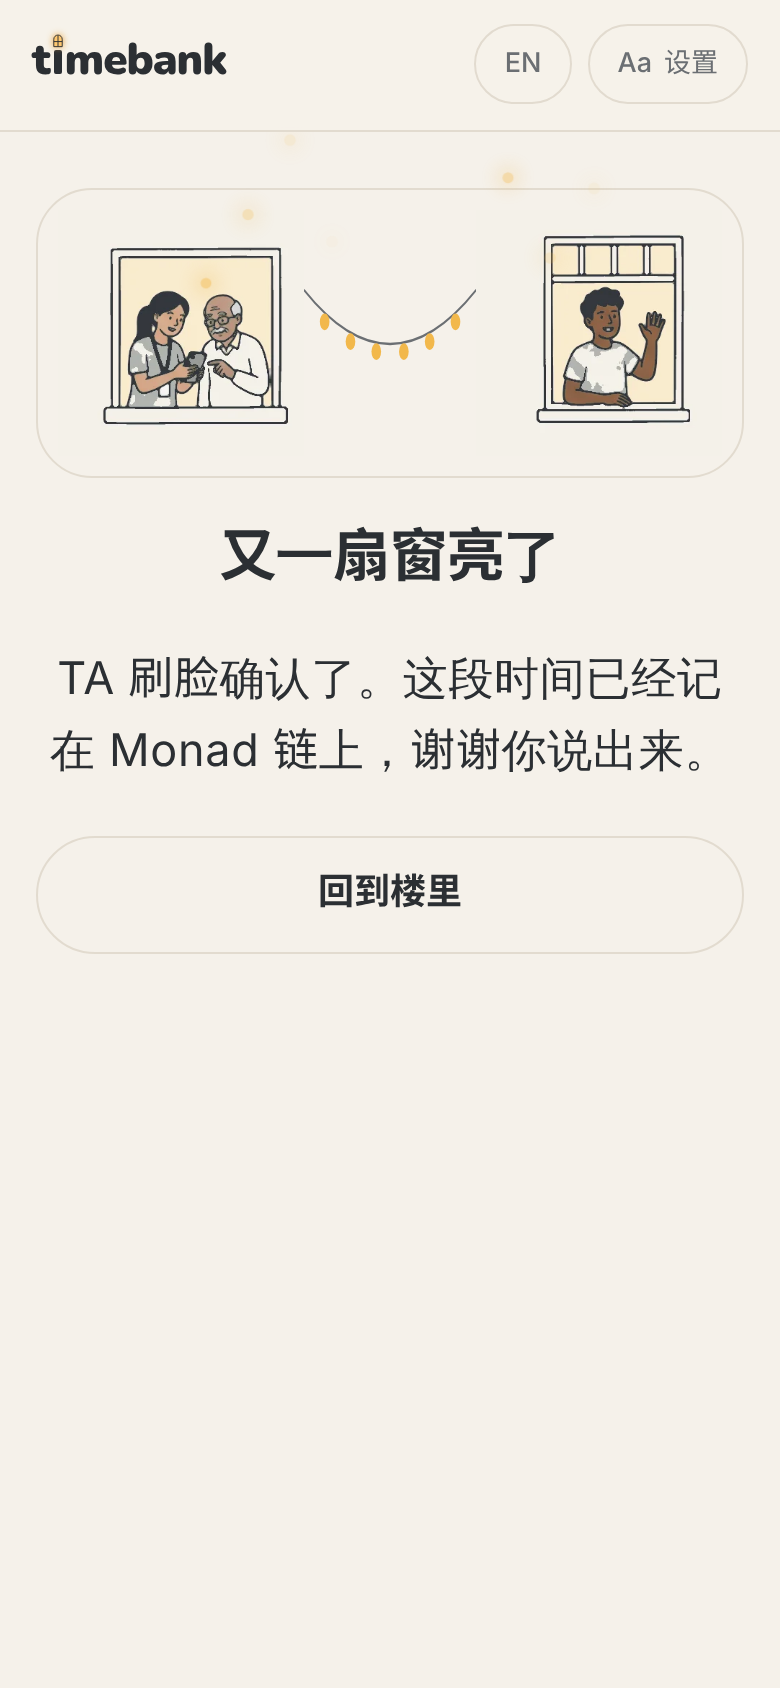
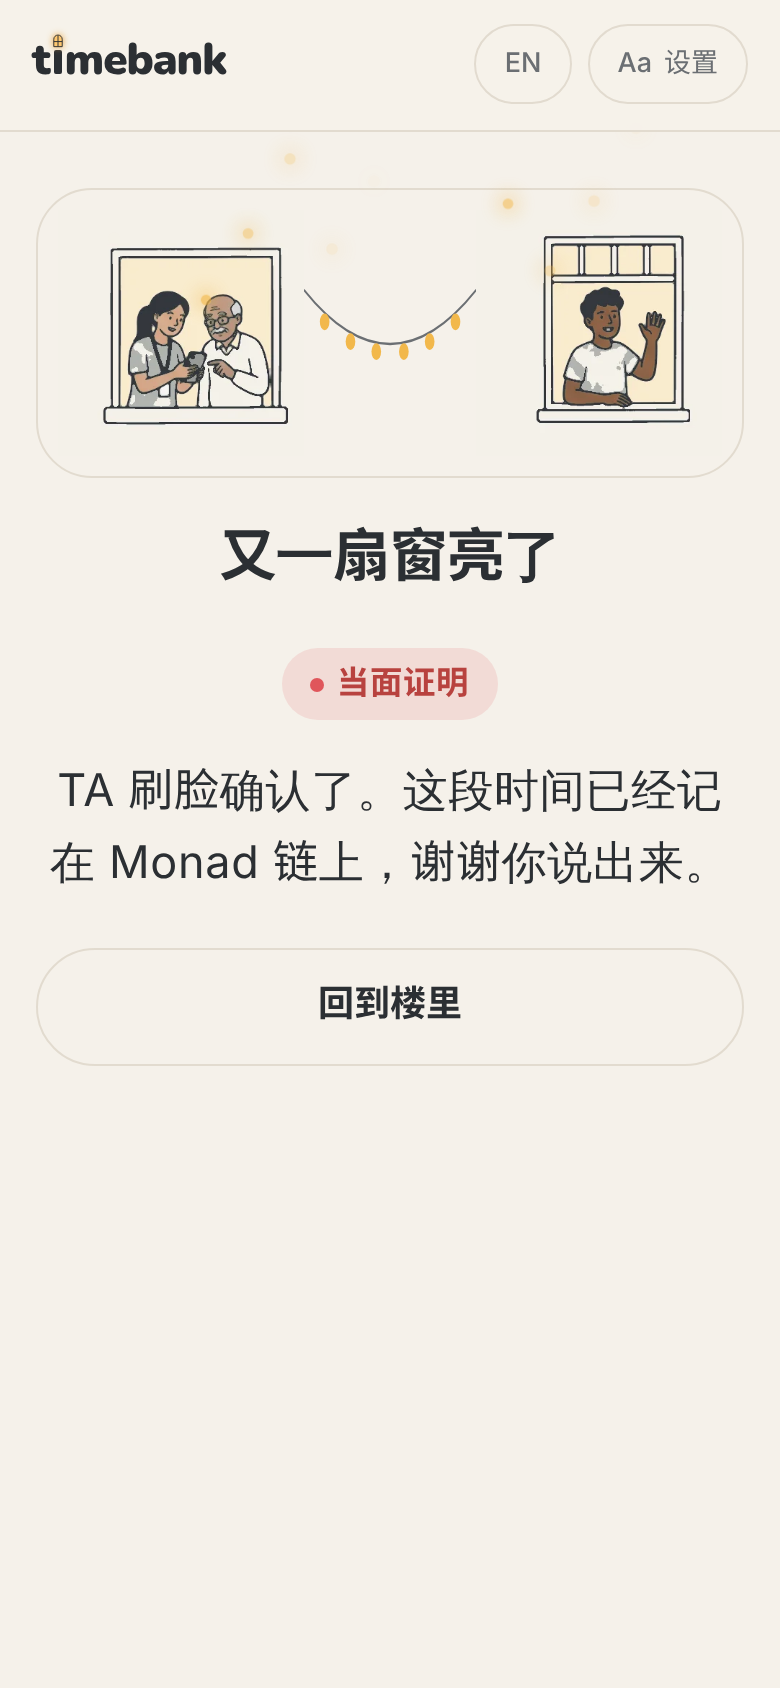
Heartbeat moment redesign: live ring, three checks, both windows light up
- The receiver's code sits in a ring that drains between Monad blocks,
  with a LIVE tag and block number, and a summary of what is being thanked.
- While Monad checks a face-to-face seal the helper sees three checks
  (their Face ID, your Face ID, heartbeat code); the receipt keeps them
  with how many blocks old the code was.
- The receiver's celebration carries the face-to-face badge.
- "Connecting to Monad…" instead of an empty box before the first beat.
- Selected activity gets a clear ring; simple mode enlarges the top buttons.

Claude-Session: https://claude.ai/code/session_019kHN3d4sz5BC1b2Eo3WTHs

diff --git a/web/src/App.tsx b/web/src/App.tsx
@@ -612,6 +612,7 @@ function Thank({ s, lang, phase, me, helper }: Ctx & { me: Me; helper: Hex }) {
         <div className="center celebrate">
           <Garland phase={phase} left={tileFor(category)} right={TILE.you} />
           <h1>{s.sealed}</h1>
+          <p className="badge-live">{s.faceToFace}</p>
           <p className="quote">{s.thankLanded}</p>
           <button className="secondary" onClick={() => go("/")}>{s.home}</button>
         </div>
@@ -622,9 +623,15 @@ function Thank({ s, lang, phase, me, helper }: Ctx & { me: Me; helper: Hex }) {
     return (
       <Screen s={s} title={s.thankTitle} onBack={() => (setPayload(""), setLive(null))}>
         <div className="sheet center">
+          <div className="hb-summary">
+            <span>
+              <strong>{(CATEGORIES.find((c) => c.id === category) ?? CATEGORIES[0])[lang]} · {formatMinutes(minutes, s)}</strong>
+              <small>{s.someone} {shortId(helper)}</small>
+            </span>
+          </div>
           <HeartbeatCode s={s} payload={payload} digest={live.digest} liveKey={live.key} />
           <p className="instruction">{s.showToHelper}</p>
-          <p className="muted small">{s.heartbeatHint}</p>
+          <p className="hb-hint"><span aria-hidden>⏱</span> {s.heartbeatHint}</p>
         </div>
       </Screen>
     );
@@ -672,13 +679,34 @@ function HeartbeatCode({ s, payload, digest, liveKey }: { s: Strings; payload: s
       clearTimeout(timer);
     };
   }, [digest, liveKey]);
-  if (!beat) return <div className="qr" />;
   return (
     <div className="heartbeat">
-      <QR value={appUrl(`/confirm/${payload}/${beat.code}`)} label={s.showToHelper} />
+      <div className="hb-frame">
+        {/* The ring drains between beats: the code on screen is only ever a moment old. */}
+        <svg className="hb-ring" viewBox="0 0 100 100" preserveAspectRatio="none" aria-hidden>
+          <rect className="hb-ring-track" x="1.5" y="1.5" width="97" height="97" rx="9" pathLength={1} />
+          {beat && (
+            <motion.rect
+              key={String(beat.block)}
+              className="hb-ring-live"
+              x="1.5"
+              y="1.5"
+              width="97"
+              height="97"
+              rx="9"
+              pathLength={1}
+              initial={{ pathLength: 1 }}
+              animate={{ pathLength: 0 }}
+              transition={{ duration: 1.1, ease: "linear" }}
+            />
+          )}
+        </svg>
+        {beat ? <QR value={appUrl(`/confirm/${payload}/${beat.code}`)} label={s.showToHelper} /> : <div className="qr hb-connecting">{s.connectingMonad}</div>}
+      </div>
       <p className="heartbeat-line">
-        <motion.span key={String(beat.block)} className="heartbeat-dot" initial={{ scale: 1.8, opacity: 0.3 }} animate={{ scale: 1, opacity: 1 }} aria-hidden />
-        {s.heartbeatBlock(String(beat.block))}
+        <span className="hb-live">LIVE</span>
+        <motion.span key={String(beat?.block)} className="heartbeat-dot" initial={{ scale: 2, opacity: 0.2 }} animate={{ scale: 1, opacity: 1 }} aria-hidden />
+        {beat ? s.heartbeatBlock(String(beat.block)) : "…"}
       </p>
     </div>
   );
@@ -773,6 +801,7 @@ function Confirm({ s, lang, phase, me, setMe, raw, beatRaw }: Ctx & { raw: strin
         <p className="instruction">{s.confirmBody(formatMinutes(p.m, s), cat[lang])}</p>
         <p className="muted small">{s.someone} {shortId(p.r)}</p>
         {p.k && <p className="badge-live">{s.faceToFace}</p>}
+        {p.k && signed && !rescan && <Checks s={s} state={busy ? "checking" : "waiting"} />}
         {signed && rescan ? (
           <>
             <p className="instruction">{s.scanAgain}</p>
@@ -797,6 +826,28 @@ function Confirm({ s, lang, phase, me, setMe, raw, beatRaw }: Ctx & { raw: strin
   );
 }
 
+/** The three things a face-to-face seal proves, shown while Monad checks them and on the receipt. */
+function Checks({ s, state, codeAge }: { s: Strings; state: "waiting" | "checking" | "done"; codeAge?: number | null }) {
+  const items = [s.checkTheirFace, s.checkYourFace, codeAge != null ? s.checkHeartbeatAge(codeAge) : s.checkHeartbeat];
+  return (
+    <ul className={`checks ${state}`}>
+      {items.map((label, i) => (
+        <motion.li
+          key={label}
+          initial={{ opacity: 0, x: -8 }}
+          animate={{ opacity: 1, x: 0 }}
+          transition={{ ...spring, delay: state === "done" ? 1.6 + i * 0.15 : i * 0.12 }}
+        >
+          <span className={state === "checking" && i === 2 ? "check-dot spin" : "check-dot ok"} aria-hidden>
+            {state === "checking" && i === 2 ? "" : "✓"}
+          </span>
+          {label}
+        </motion.li>
+      ))}
+    </ul>
+  );
+}
+
 function Receipt({ s, hash, seconds, codeAge }: { s: Strings; hash: Hex; seconds: string; codeAge?: number | null }) {
   return (
     <motion.div className="receipt" initial={{ opacity: 0, y: 20 }} animate={{ opacity: 1, y: 0 }} transition={{ ...spring, delay: 1.4 }}>
@@ -805,8 +856,14 @@ function Receipt({ s, hash, seconds, codeAge }: { s: Strings; hash: Hex; seconds
         <strong>{s.receiptTitle}</strong>
         {seconds && <span className="receipt-time">{s.receiptTime(seconds)}</span>}
       </div>
-      <p>{s.receiptSigned}</p>
-      {codeAge != null && <p className="receipt-live">{s.receiptLive(codeAge)}</p>}
+      {codeAge != null ? (
+        <>
+          <p className="receipt-live">{s.faceToFace}</p>
+          <Checks s={s} state="done" codeAge={codeAge} />
+        </>
+      ) : (
+        <p>{s.receiptSigned}</p>
+      )}
       <p className="muted small">{s.receiptWhy}</p>
       <a className="receipt-tx" href={`${chain.EXPLORER}/tx/${hash}`} target="_blank" rel="noreferrer">
         {s.receiptTx} {hash.slice(0, 10)}…{hash.slice(-6)} ↗

diff --git a/web/src/styles.css b/web/src/styles.css
@@ -1923,11 +1923,50 @@ body {
 }
 
 /* ---------- heartbeat code (face-to-face seals) ---------- */
+:root {
+  --live: #e0565b;
+  --live-soft: rgba(224, 86, 91, 0.14);
+  --live-ink: #b8423f;
+}
+:root[data-phase="night"] {
+  --live: #ff7a7f;
+  --live-soft: rgba(255, 122, 127, 0.16);
+  --live-ink: #ff9a9e;
+}
 .heartbeat {
   display: flex;
   flex-direction: column;
   align-items: center;
-  gap: 8px;
+  gap: 10px;
+}
+.hb-frame {
+  position: relative;
+  padding: 12px;
+}
+.hb-frame .qr {
+  display: block;
+  position: relative;
+}
+.hb-ring {
+  position: absolute;
+  inset: 0;
+  width: 100%;
+  height: 100%;
+  overflow: visible;
+}
+.hb-ring rect {
+  fill: none;
+  stroke-width: 2.4;
+  vector-effect: non-scaling-stroke;
+}
+.hb-ring-track {
+  stroke: var(--line);
+}
+.hb-ring-live {
+  stroke: var(--live);
+  stroke-width: 4 !important;
+  stroke-linecap: round;
+  filter: drop-shadow(0 0 6px var(--live-soft));
 }
 .heartbeat-line {
   display: flex;
@@ -1935,25 +1974,119 @@ body {
   gap: 8px;
   margin: 0;
   font-family: ui-monospace, "SF Mono", Menlo, monospace;
-  font-size: 0.8rem;
+  font-size: 0.85rem;
   color: var(--ink-soft);
+}
+.hb-live {
+  padding: 2px 7px;
+  border-radius: 6px;
+  font-size: 0.7rem;
+  font-weight: 700;
+  letter-spacing: 0.08em;
+  color: #fff;
+  background: var(--live);
 }
 .heartbeat-dot {
   width: 9px;
   height: 9px;
   border-radius: 50%;
-  background: #e0565b;
-  box-shadow: 0 0 0 4px rgba(224, 86, 91, 0.18);
+  background: var(--live);
+  box-shadow: 0 0 0 4px var(--live-soft);
+}
+.hb-summary {
+  display: flex;
+  align-items: center;
+  gap: 12px;
+  align-self: stretch;
+  padding: 10px 16px;
+  border-radius: 18px;
+  background: var(--paper-2);
+  text-align: left;
+}
+.hb-summary-tile {
+  display: block;
+  width: 52px;
+  flex: none;
+  border-radius: 12px;
+  overflow: hidden;
+}
+.hb-summary strong {
+  display: block;
+}
+.hb-summary small {
+  color: var(--ink-soft);
+}
+.hb-hint {
+  margin: 0;
+  font-size: 0.85rem;
+  color: var(--ink-soft);
 }
 .badge-live {
-  display: inline-block;
-  margin: 4px auto 12px;
-  padding: 4px 12px;
+  display: inline-flex;
+  align-items: center;
+  gap: 6px;
+  margin: 2px auto 6px;
+  padding: 5px 14px;
   border-radius: 999px;
-  font-size: 0.85rem;
+  font-size: 0.9rem;
+  font-weight: 700;
+  color: var(--live-ink);
+  background: var(--live-soft);
+}
+.badge-live::before {
+  content: "";
+  width: 7px;
+  height: 7px;
+  border-radius: 50%;
+  background: var(--live);
+}
+.checks {
+  list-style: none;
+  margin: 4px 0 8px;
+  padding: 0;
+  display: grid;
+  gap: 8px;
+  align-self: stretch;
+  text-align: left;
+}
+.checks li {
+  display: flex;
+  align-items: center;
+  gap: 10px;
+  font-size: 0.92rem;
+}
+.check-dot {
+  width: 22px;
+  height: 22px;
+  flex: none;
+  display: grid;
+  place-items: center;
+  border-radius: 50%;
+  font-size: 0.75rem;
+  font-weight: 700;
+}
+.check-dot.ok {
+  color: #fff;
+  background: #4caf7a;
+}
+.check-dot.spin {
+  border: 2.5px solid var(--live-soft);
+  border-top-color: var(--live);
+  animation: hb-spin 0.8s linear infinite;
+}
+@keyframes hb-spin {
+  to {
+    transform: rotate(360deg);
+  }
+}
+.receipt .checks li:last-child {
   font-weight: 600;
-  color: #b8423f;
-  background: rgba(224, 86, 91, 0.12);
+  color: var(--live-ink);
+}
+.receipt-live {
+  margin: 0 0 4px !important;
+  font-weight: 700;
+  color: var(--live-ink);
 }
 :root[data-phase="night"] .badge-live {
   color: #f08a85;
@@ -1976,12 +2109,14 @@ body {
 .live-scan-frame {
   position: absolute;
   inset: 14%;
-  border: 3px solid rgba(255, 255, 255, 0.85);
+  border: 3px solid var(--live);
   border-radius: 14px;
+  box-shadow: 0 0 0 999px rgba(0, 0, 0, 0.35);
 }
-.receipt-live {
-  color: #b8423f;
-  font-weight: 600;
+@media (prefers-reduced-motion: reduce) {
+  .check-dot.spin {
+    animation: none;
+  }
 }
 
 /* ---------- wrapping polish ---------- */
@@ -2012,4 +2147,22 @@ h2,
 .family-name small {
   display: block;
   white-space: nowrap;
+}
+
+/* Selected category: a clear ring, not just bold text, for older eyes. */
+.category.on .category-art .tile-wrap {
+  border-radius: 16px;
+  box-shadow: 0 0 0 3px var(--glow) !important;
+}
+/* Simple mode: bigger language and settings buttons too. */
+:root[data-big="1"] .topbar button {
+  min-height: 48px;
+  padding: 0 16px;
+  font-size: 1rem;
+}
+.hb-connecting {
+  display: grid;
+  place-items: center;
+  color: var(--ink-soft);
+  font-size: 0.9rem;
 }

diff --git a/web/src/i18n.ts b/web/src/i18n.ts
@@ -116,13 +116,17 @@ const zh = {
   overClaim: "申报的时长超过实际在场时长。记录仍会保存，但会被标记，供社区核查。",
   expiresHint: "这个码 5 分钟内有效，请当面扫。",
   expired: "确认码已过期，请对方重新生成。",
-  heartbeatHint: "这个码跟着 Monad 区块每秒在变，拍照转发过去几秒就失效，只能当面扫。",
-  heartbeatBlock: (n: string) => `心跳 · Monad 第 ${n} 块`,
-  faceToFace: "当面盖印",
+  heartbeatHint: "码跟着 Monad 区块每秒在变，拍照转发几秒就失效",
+  heartbeatBlock: (n: string) => `Monad #${n}`,
+  faceToFace: "当面证明",
+  connectingMonad: "正在连接 Monad…",
+  checkTheirFace: "TA 的 Face ID",
+  checkYourFace: "你的 Face ID",
+  checkHeartbeat: "心跳码：正在 Monad 上核对是否当面",
+  checkHeartbeatAge: (n: number) => `心跳码：上链时只过了 ${n} 个区块，确认当面`,
   scanAgain: "码过期了，再对准 TA 屏幕上跳动的码扫一下",
   thankLanded: "TA 刷脸确认了。这段时间已经记在 Monad 链上，谢谢你说出来。",
   codeStale: "码已经过期了。请站在 TA 身边，对准 TA 屏幕上正在跳动的码重新扫。",
-  receiptLive: (blocks: number) => `当面证明：扫到的码只比上链早 ${blocks} 个区块`,
   cardNeeded: "请扫描家人卡上的二维码，到门口的提醒才能发给家人。",
   whatDidYouDo: "你帮 TA 做了什么？",
   notThisDoor: "注意：这条到门记录不是在你家人门口，请先问清楚再确认。",
@@ -279,13 +283,17 @@ const en: Strings = {
   overClaim: "The time claimed is longer than the time present. It is still recorded, but flagged for the community to review.",
   expiresHint: "This code works for 5 minutes. Scan it in person.",
   expired: "This confirmation has expired. Ask them to make a new one.",
-  heartbeatHint: "This code changes every second with Monad's blocks. A forwarded photo dies within seconds, so it only works face to face.",
-  heartbeatBlock: (n: string) => `Heartbeat · Monad block ${n}`,
-  faceToFace: "Face to face",
+  heartbeatHint: "Changes every second with Monad's blocks. A forwarded photo dies in seconds",
+  heartbeatBlock: (n: string) => `Monad #${n}`,
+  faceToFace: "Proven face to face",
+  connectingMonad: "Connecting to Monad…",
+  checkTheirFace: "Their Face ID",
+  checkYourFace: "Your Face ID",
+  checkHeartbeat: "Heartbeat code: Monad is checking you're together",
+  checkHeartbeatAge: (n: number) => `Heartbeat code: only ${n} blocks old when it landed`,
   scanAgain: "That code aged out. Scan the live code on their screen once more",
   thankLanded: "They confirmed with Face ID. This time is now recorded on Monad. Thank you for saying thanks.",
   codeStale: "That code is too old. Stand with them and scan the live code on their screen.",
-  receiptLive: (blocks: number) => `Proven in person: the code was ${blocks} blocks old when it landed`,
   cardNeeded: "Scan the QR code on their family card so their family can be told you're at the door.",
   whatDidYouDo: "What did you help them with?",
   notThisDoor: "Careful: this arrival was not at your relative's door. Ask before you confirm.",
